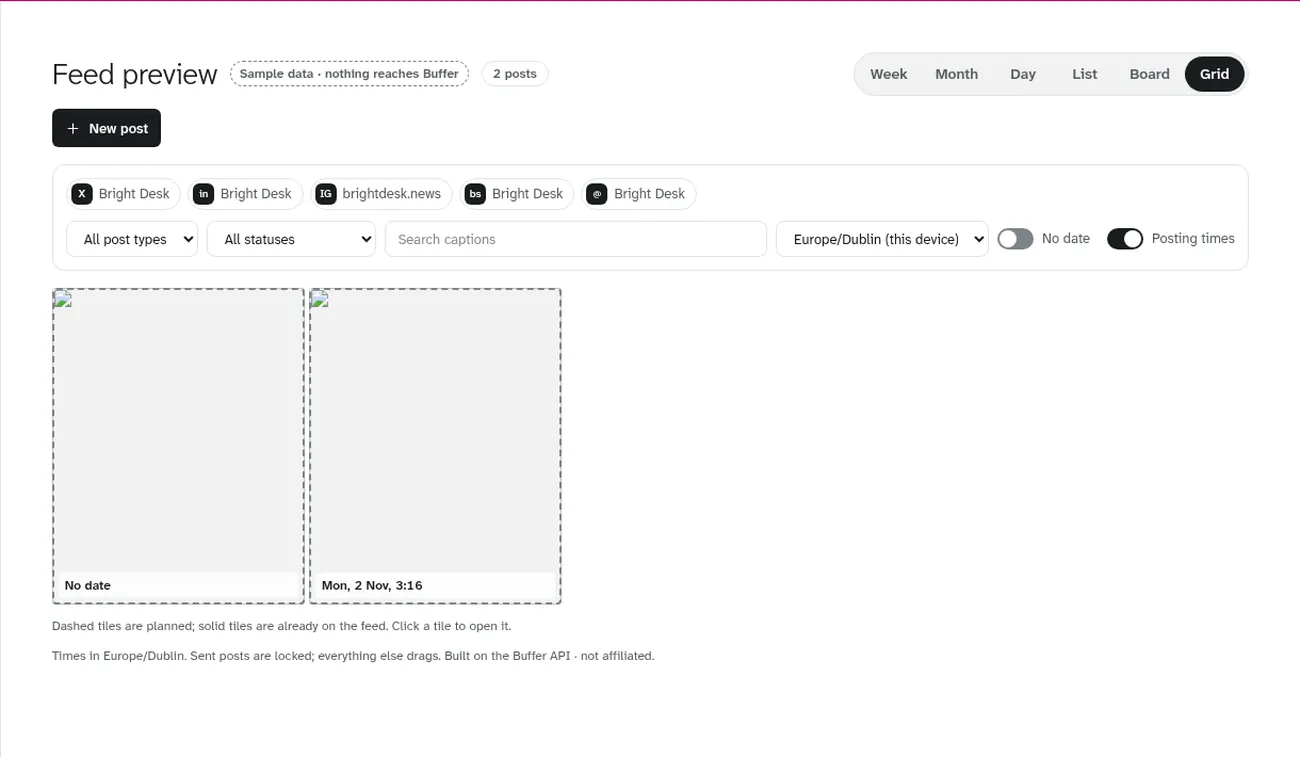
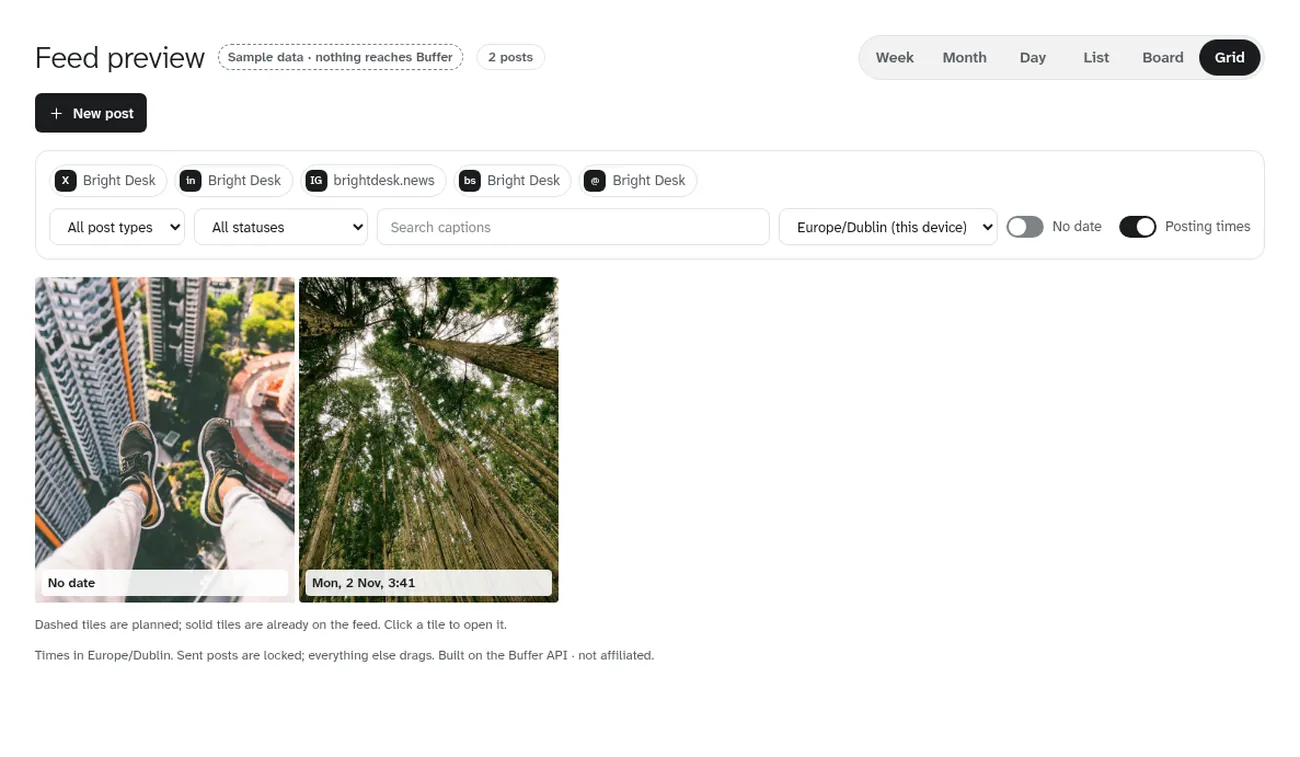
Planner Week opens at the first post of the week (it opened at 07:00 with every post below the fold); premium_shots.py: 'land' set re-captures the landing's Planner images (November month, padded), VIA_HTTPX=1 for sandboxes whose proxy only Python can use; landing images re-shot

diff --git a/studio/static/planner.js b/studio/static/planner.js
@@ -179,7 +179,8 @@ function plDraw() {
   plWire();
   const sc = $(".pl-week-scroll");
   if (sc) {
-    const first = PL.view === "day" ? Math.min(...((byDay[r.days[0]] || []).map((i) => i.z.h)), 24) : 24;
+    const days = PL.view === "day" ? [r.days[0]] : r.days;  // Day and Week open at the first post of the range
+    const first = Math.min(...days.flatMap((d) => (byDay[d] || []).filter((i) => i.kind !== "ghost").map((i) => i.z.h)), 24);
     sc.scrollTop = keep ?? (first < 24 ? Math.max(0, first - 1) : 7) * ROW_H;
   }
 }

diff --git a/scripts/premium_shots.py b/scripts/premium_shots.py
@@ -1,10 +1,12 @@
 """Screenshots of the premium UX in the real app (sample workspace, never a real Buffer account).
 
-    python scripts/premium_shots.py OUT_DIR [set ...]        sets: landing, app, planner, docs, legal, all (default all)
+    python scripts/premium_shots.py OUT_DIR [set ...]        sets: landing, app, planner, docs, legal, all (default all); land (the landing's Planner images, 1440 only)
     BASE=https://huhqueue-studio.onrender.com python scripts/premium_shots.py OUT   (shoot a live server instead)
 
 Starts the app in-process on a free port unless BASE is set. Light and dark, 1440 and 390 px. Also used for the docs
-screenshots (python scripts/premium_shots.py studio/static/docs-shots docs)."""
+screenshots (python scripts/premium_shots.py studio/static/docs-shots docs).
+VIA_HTTPX=1 fetches every non-local request with httpx instead of the browser's network (for a sandbox whose proxy only
+Python can use); the pages, cookies and images are the same."""
 import os
 import socket
 import sys
@@ -75,6 +77,58 @@ def docshots(pg, base: str, scheme: str, dev: str) -> None:
         pg.wait_for_timeout(1000); save(key)
 
 
+def via_httpx(ctx) -> None:
+    """Route non-local requests through httpx (VIA_HTTPX=1)."""
+    import httpx
+    client = httpx.Client(follow_redirects=False, timeout=30)
+
+    def handle(route, request):
+        if request.url.startswith(("http://127.0.0.1", "http://localhost", "data:", "blob:")):
+            return route.continue_()
+        try:
+            h = {k: v for k, v in request.all_headers().items() if not k.startswith(":") and k.lower() not in ("host", "content-length", "accept-encoding")}
+            r = client.request(request.method, request.url, headers=h, content=request.post_data_buffer,
+                               follow_redirects=request.resource_type != "document")
+            hdrs = [(k, v) for k, v in r.headers.multi_items() if k.lower() not in ("content-encoding", "content-length", "transfer-encoding")]
+            route.fulfill(status=r.status_code, headers=dict(hdrs), body=r.content)
+            for k, v in hdrs:
+                if k.lower() == "set-cookie":
+                    ctx.add_cookies([_cookie(v, request.url)])
+        except Exception:
+            route.abort()
+    ctx.route("**/*", handle)
+
+
+def _cookie(header: str, url: str) -> dict:
+    name, _, rest = header.partition("=")
+    value = rest.split(";", 1)[0]
+    return {"name": name.strip(), "value": value, "url": url.split("/", 3)[0] + "//" + url.split("/", 3)[2]}
+
+
+def land_shots(pg, base: str, scheme: str) -> None:
+    """studio/static/land/planner-<view>-<scheme>.webp: the Planner panel of the real sample, 1300x757."""
+    from PIL import Image
+    d = ROOT / "studio" / "static" / "land"
+    tmp = Path(tempfile.mkdtemp())
+    pg.goto(base + "/demo", wait_until="networkidle"); pg.wait_for_selector("#app:not([hidden])")
+    pg.evaluate("localStorage.setItem('hq_tour_done','1'); document.querySelector('.tour') && window.tourEnd && tourEnd()")
+    pg.evaluate("showTab('planner')")
+    for v in ("week", "month", "list", "board", "grid"):
+        pg.evaluate(f"plSetView('{v}')"); pg.wait_for_timeout(300)
+        if v == "month":  # the sample's posts sit at the end of this month and through the next
+            pg.evaluate("plShift(1)")
+        pg.wait_for_timeout(1200)
+        pg.evaluate("document.getElementById('toast') && (document.getElementById('toast').hidden = true)")
+        box = pg.locator("#tab-planner").bounding_box()
+        pad = 32
+        w = box["width"] + 2 * pad
+        pg.screenshot(path=str(tmp / "s.png"), clip={"x": box["x"] - pad, "y": box["y"] - pad, "width": w, "height": round(w * 757 / 1300)})
+        if v == "month":
+            pg.evaluate("plShift(-1)")
+        Image.open(tmp / "s.png").convert("RGB").resize((1300, 757), Image.LANCZOS).save(
+            d / f"planner-{v}-{scheme}.webp", "WEBP", quality=80, method=6)
+
+
 def want(name: str) -> bool:
     return ("all" in SETS and name not in ("docshots", "og")) or name in SETS
 
@@ -90,6 +144,8 @@ def main() -> None:
                 h = 900 if w > 600 else 844
                 ctx = b.new_context(viewport={"width": w, "height": h}, color_scheme=scheme, timezone_id="Europe/Dublin", locale="en-IE",
                                     device_scale_factor=1, reduced_motion="no-preference")
+                if os.environ.get("VIA_HTTPX"):
+                    via_httpx(ctx)
                 pg = ctx.new_page()
                 pg.on("pageerror", lambda e: errors.append(f"{scheme} {w}: {e}"))
                 tag = f"{w}-{scheme}"
@@ -134,6 +190,8 @@ def main() -> None:
                         pg.evaluate(f"plSetView('{v}')"); pg.wait_for_timeout(900)
                         pg.evaluate("document.getElementById('toast').hidden = true")
                         pg.screenshot(path=str(OUT / f"planner-{v}-{tag}.png"))
+                if "land" in SETS and w == 1440:
+                    land_shots(pg, base, scheme)
                 if want("docshots") and w in (1440, 390):
                     docshots(pg, base, scheme, "desktop" if w > 600 else "phone")
                 ctx.close()
